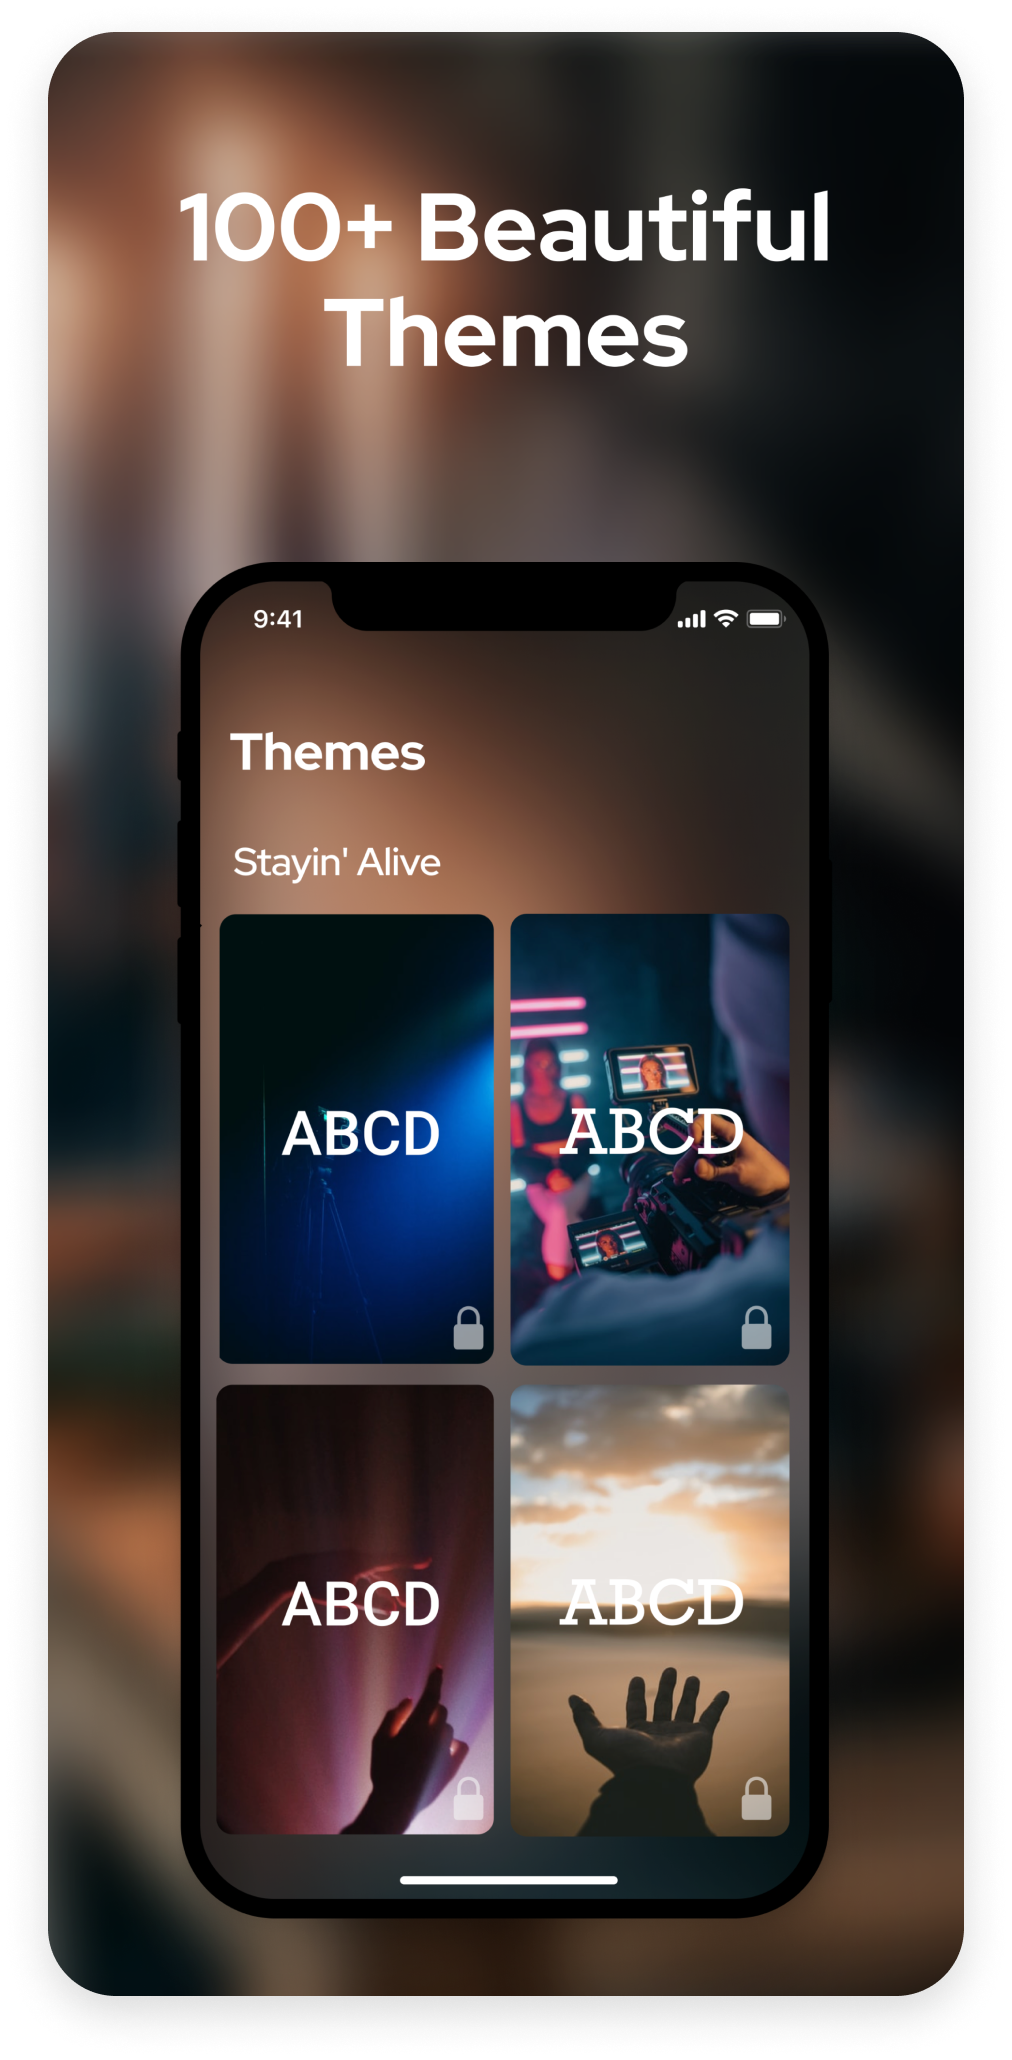
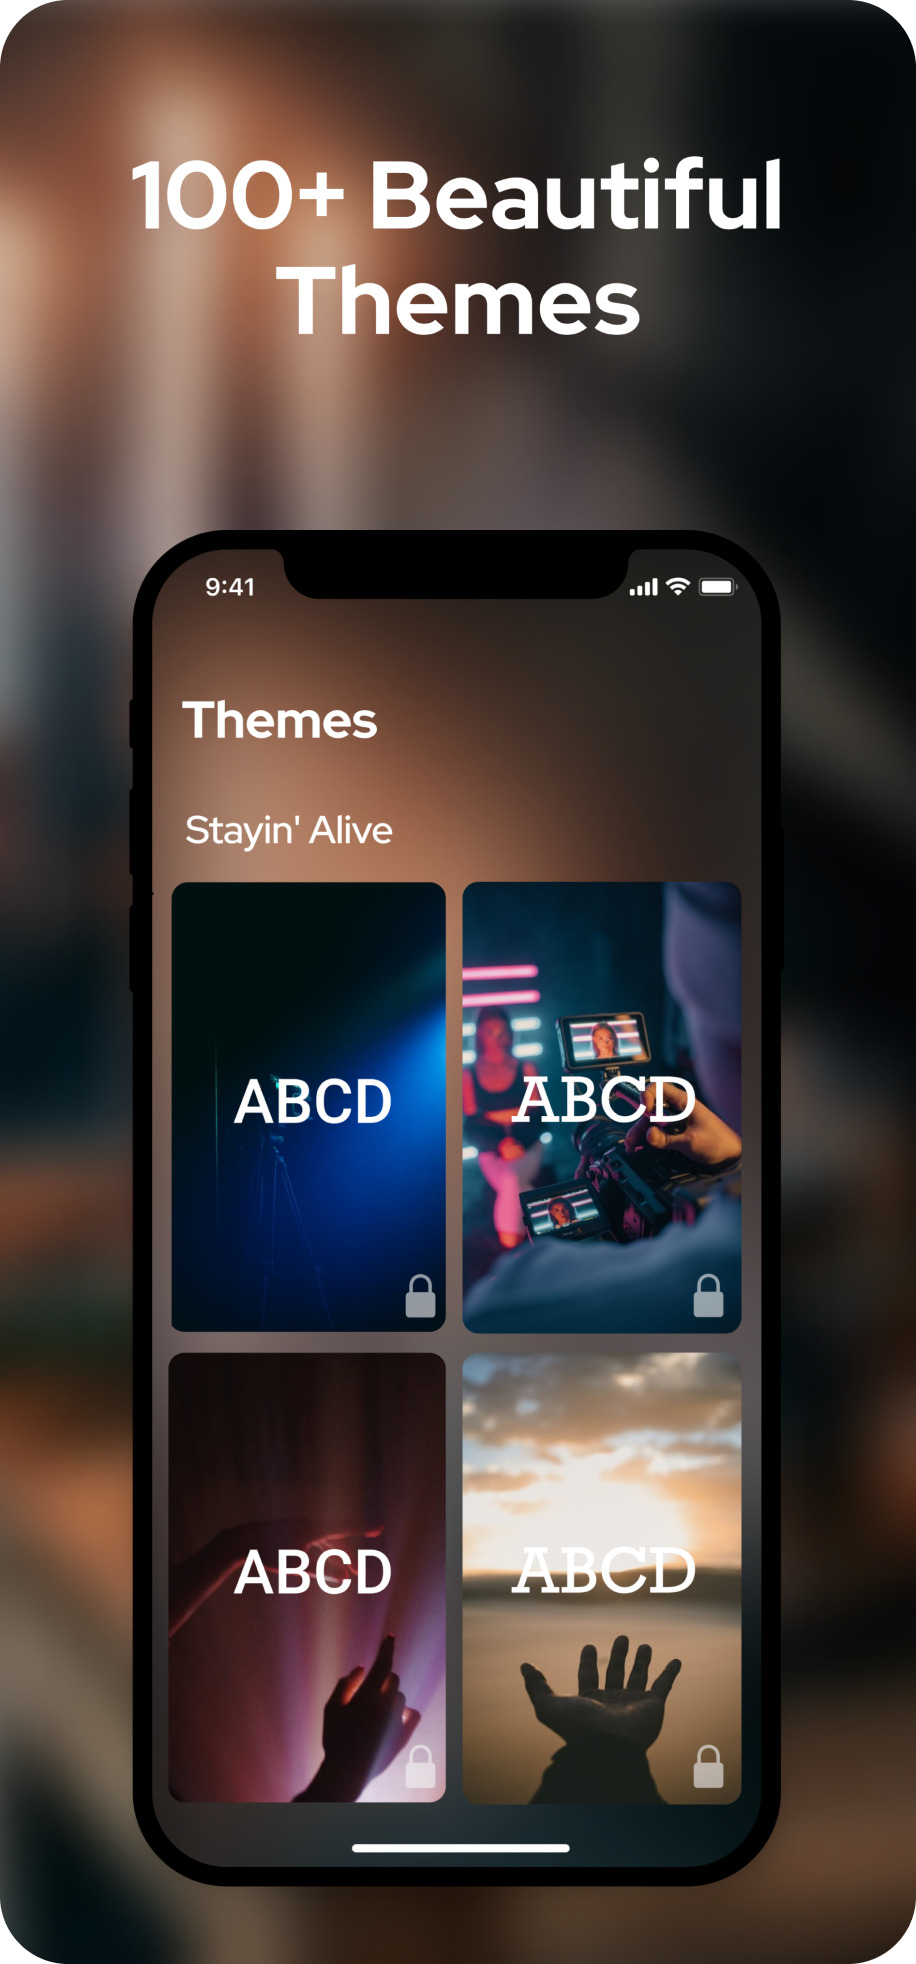
images updated

diff --git a/mindful.html b/mindful.html
@@ -64,8 +64,16 @@
             </div>
           </div>
           <div class="right">
-            <img src="./assets/images/mockup1.png" alt="About mockup" />
-            <img src="./assets/images/mockup2.png" alt="About mockup" />
+            <img
+              src="./assets/images/mockup1.png"
+              alt="About mockup"
+              width="250px"
+            />
+            <img
+              src="./assets/images/mockup2.png"
+              alt="About mockup"
+              width="250px"
+            />
           </div>
         </div>
       </div>
@@ -99,10 +107,12 @@
             <img
               src="./assets/images/page_mockuo_mindful_themes.png"
               alt="Theme preview"
+              width="250px"
             />
             <img
               src="./assets/images/page_mockuo_mindful_themes2.png"
               alt="Theme preview"
+              width="250px"
             />
           </div>
           <div class="mindful_themes_desc">
@@ -155,9 +165,21 @@
       <div class="container">
         <div class="mindful_themes_title">Screen Shots</div>
         <div class="mindful_screen_wrapper">
-          <img src="./assets/images/screen_shot.png" alt="Screen Shot" />
-          <img src="./assets/images/screen_shot2.png" alt="Screen Shot" />
-          <img src="./assets/images/screen_shot3.png" alt="Screen Shot" />
+          <img
+            src="./assets/images/screen_shot.png"
+            alt="Screen Shot"
+            width="229px"
+          />
+          <img
+            src="./assets/images/screen_shot2.png"
+            alt="Screen Shot"
+            width="229px"
+          />
+          <img
+            src="./assets/images/screen_shot3.png"
+            alt="Screen Shot"
+            width="229px"
+          />
         </div>
       </div>
       <section class="mindful_onboarding_purchase">
@@ -176,9 +198,21 @@
             <div class="mindful_onboarding_wrapper">
               <div class="mindful_themes_title">Onboarding</div>
               <div class="onboarding_img_wrapper">
-                <img src="./assets/images/onboarding.png" alt="Onboarding" />
-                <img src="./assets/images/onboarding2.png" alt="Onboarding" />
-                <img src="./assets/images/onboarding3.png" alt="Onboarding" />
+                <img
+                  src="./assets/images/onboarding.png"
+                  alt="Onboarding"
+                  width="182px"
+                />
+                <img
+                  src="./assets/images/onboarding2.png"
+                  alt="Onboarding"
+                  width="182px"
+                />
+                <img
+                  src="./assets/images/onboarding3.png"
+                  alt="Onboarding"
+                  width="182px"
+                />
               </div>
             </div>
             <div class="mindful_purchase_wrapper">
@@ -187,6 +221,7 @@
                 <img
                   src="./assets/images/in_app_purchase.png"
                   alt="In App Purchase"
+                  width="184px"
                 />
               </div>
             </div>

diff --git a/iconic.html b/iconic.html
@@ -33,10 +33,12 @@
             <img
               src="./assets/images/page_mockup_iconic.png"
               alt="Mockup Iconic"
+              width="230px"
             />
             <img
               src="./assets/images/page_mockup_iconic2.png"
               alt="Mockup Iconic"
+              width="230px"
             />
           </div>
           <div class="about_text_wrapper">
@@ -93,10 +95,12 @@
             <img
               src="./assets/images/page_mockup_iconic_home.png"
               alt="Iconic Home Screen"
+              width="230px"
             />
             <img
               src="./assets/images/page_mockup_iconic_home2.png"
               alt="Iconic Home Screen"
+              width="230px"
             />
           </div>
         </div>
@@ -137,6 +141,7 @@
             <img
               src="./assets/images/page_mockup_iconic_detail.png"
               alt="Iconic Detail Mockup"
+              width="274px"
             />
           </div>
           <div>
@@ -200,7 +205,11 @@
             </div>
           </div>
           <div class="purchase_mockup_wrapper">
-            <img src="./assets/images/page_mockuo_iconic_purchase.png" alt="" />
+            <img
+              src="./assets/images/page_mockuo_iconic_purchase.png"
+              alt="Iconic Purchase Mockup"
+              width="310px"
+            />
           </div>
         </div>
       </div>

diff --git a/index.html b/index.html
@@ -85,7 +85,11 @@
           </div>
           <div class="right">
             <img src="./assets/images/torus.png" alt="Tours" class="tours" />
-            <img src="./assets/images/mockup_iconic.png" alt="Iconic Mockup" />
+            <img
+              src="./assets/images/mockup_iconic.png"
+              alt="Iconic Mockup"
+              width="278px"
+            />
           </div>
         </div>
       </div>
@@ -191,6 +195,7 @@
               src="./assets/images/mockup_pipifire.png"
               alt="Mindful Mockup"
               class="mockup mockup_pipifire"
+              width="280px"
             />
           </div>
         </div>

diff --git a/pipifire.html b/pipifire.html
@@ -39,6 +39,7 @@
             <img
               src="./assets/images/page_mockup_pipifire_header.png"
               alt="Header Mockup"
+              width="286px"
             />
           </div>
           <div class="pipifire_header_content">
@@ -95,6 +96,7 @@
             <img
               src="./assets/images/page_mockup_pipifire_inapp.png"
               alt="Mcokup"
+              width="286px"
             />
           </div>
           <div class="content">

diff --git a/assets/mindful.css b/assets/mindful.css
@@ -473,5 +473,5 @@ body > div {
   }
 }
 
-@media (max-width: 575.98px) {
+@media (max-widtdh: 575.98px) {
 }
